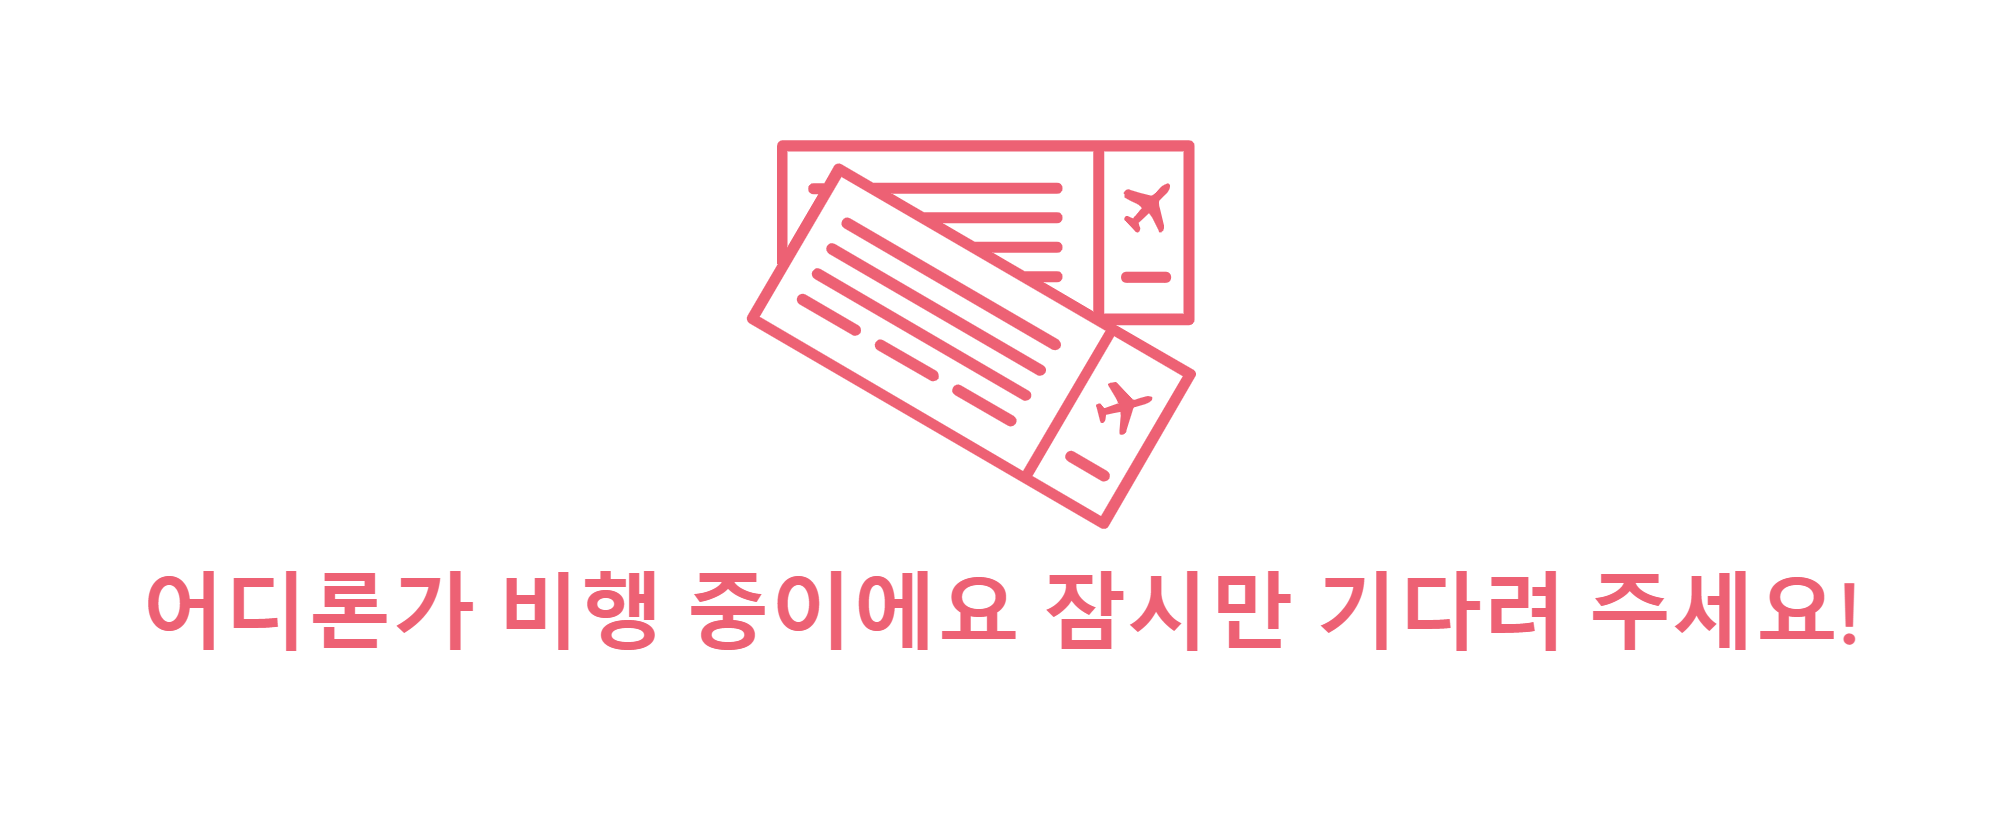
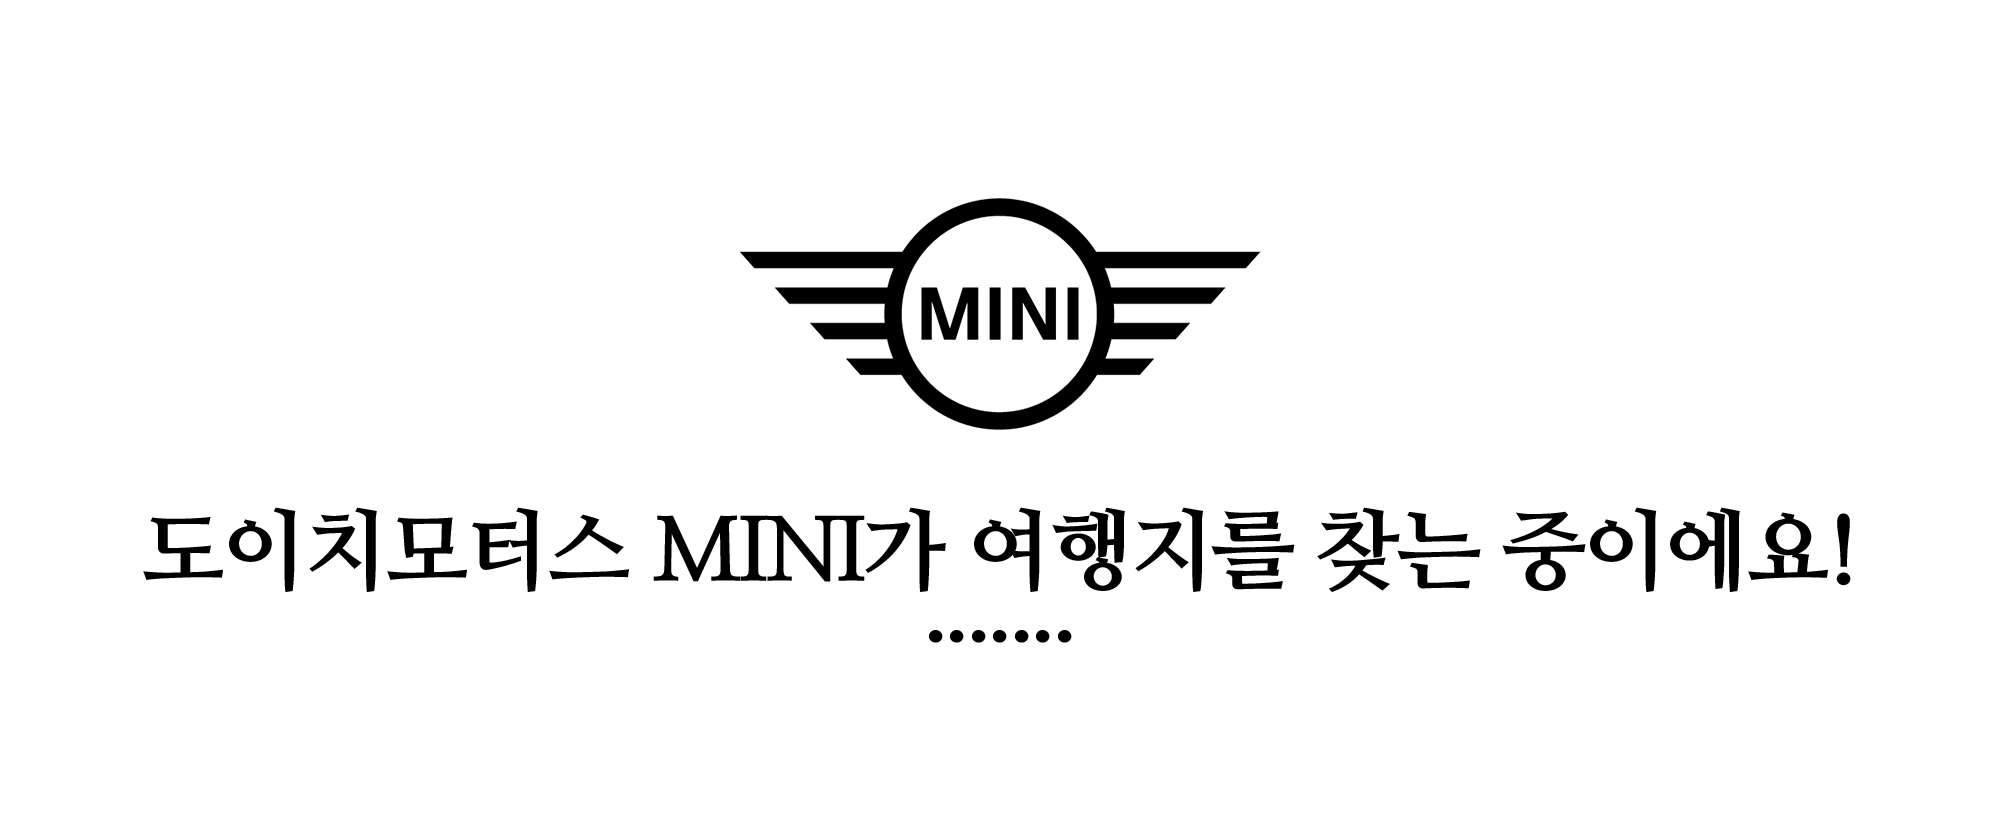
1
1

Changed region(s): [[0.062, 0.1528, 0.93, 0.7946]]

diff --git a/src/components/countries/countries - 복사본.jsx b/src/components/countries/countries - 복사본.jsx
@@ -24,13 +24,15 @@ const Profile = ({ match }) => {
         <>
             <div className={styles.wrapper} key={nation.id}>
                 <div className={styles.container}>
-                    <div>
-                        <center>
-                            <img
-                                    src="/img/FelizLogo.png" height={100}
+                    <div className={styles.header}>
+                        <>
+                            <Link to="/">
+                                <FontAwesomeIcon
+                                    icon={faEarlybirds}
                                     className={styles.birds}
                                 />
-                        </center>
+                            </Link>
+                        </>
                     </div>
                     <img
                         src={nation.img}

diff --git a/src/components/options/option.module.css b/src/components/options/option.module.css
@@ -29,7 +29,7 @@ button {
 }
 
 .mbti__progress__color {
-    color: #ed6174;
+    color: #000000;
     font-size: 1.5em;
 }
 
@@ -69,7 +69,7 @@ button {
 
 .mbti__button:active {
     color: #fff;
-    background-color: #ed6174;
+    background-color: #000000;
     transform: scale(0.95);
     transition: 100ms;
     border: none;
@@ -91,7 +91,7 @@ button {
     width: 2.5rem;
     height: 2.5rem;
     border-radius: 50%;
-    border: 1px solid #ed6174;
+    border: 1px solid #000000;
     border-top: 1px solid white;
     animation: spin 2s linear infinite;
 }
@@ -134,7 +134,7 @@ button {
 
     .mbti__button:hover {
         color: #fff;
-        background-color: #ed6174;
+        background-color: #000000;
         transform: scale(0.98);
         transition: 100ms;
     }

diff --git a/src/components/home/home.jsx b/src/components/home/home.jsx
@@ -26,7 +26,7 @@ const Home = () => {
                     </div>
                     <div className={styles.middle}>
                         <h2 className={styles.header}>올해는 어디로 갈까?</h2>
-                        <p>총 16개의 유형의 MBTI성향을 기반으로</p>
+                        <p>도이치모터스 MINI가 MBTI성향을 기반으로</p>
                         <p>가장 잘 어울리는 여행지를 추천해드려요.</p>
                     </div>
                     <div className={styles.bottom}>

diff --git a/src/components/countries/countries.module.css b/src/components/countries/countries.module.css
@@ -96,7 +96,7 @@ strong {
 .button__box button {
 	margin: 0.4rem 0 0.4rem 0;
 	padding: 0.6rem;
-	background-color: #ed6174;
+	background-color: #000000;
 	color: #e8e7e6;
 	border: none;
 	border-radius: 6px;
@@ -105,7 +105,7 @@ strong {
 .button__box a {
 	margin: 0.3rem 0 0.3rem 0;
 	padding: 0.6rem;
-	background-color: #ed6174;
+	background-color: #000000;
 	color: #e8e7e6;
 	border: none;
 	border-radius: 6px;

diff --git a/public/index.html b/public/index.html
@@ -28,7 +28,7 @@
 			content="나한테 어울리는 여행지는 어디일까?"
 		/>
 		<meta property="og: image" content="넣고싶은 이미지 경로" />
-		<title>Feliz for Travel</title>
+		<title>MINI와 함께 떠나는 세계여행</title>
 	</head>
 	<body>
 		<div id="root"></div>

diff --git a/src/components/shareSNS/twitterShareButton.jsx b/src/components/shareSNS/twitterShareButton.jsx
@@ -5,7 +5,7 @@ const TwitterShareButton = () => {
 		<div>
 			<a
 				className="twitter-share-button"
-				href="https://twitter.com/intent/tweet?text=https://felizmbti.netlify.app/"
+				href="https://www.instagram.com/mini.deutschmotors/"
 				data-size="large"
 			>
 				<img

diff --git a/src/components/home/home.module.css b/src/components/home/home.module.css
@@ -29,7 +29,7 @@
 	justify-content: center;
 	align-items: center;
 	border-radius: 6px;
-	background-color: #eeeeee;
+	background-color: #000000;
 	color: #fff;
 }
 
